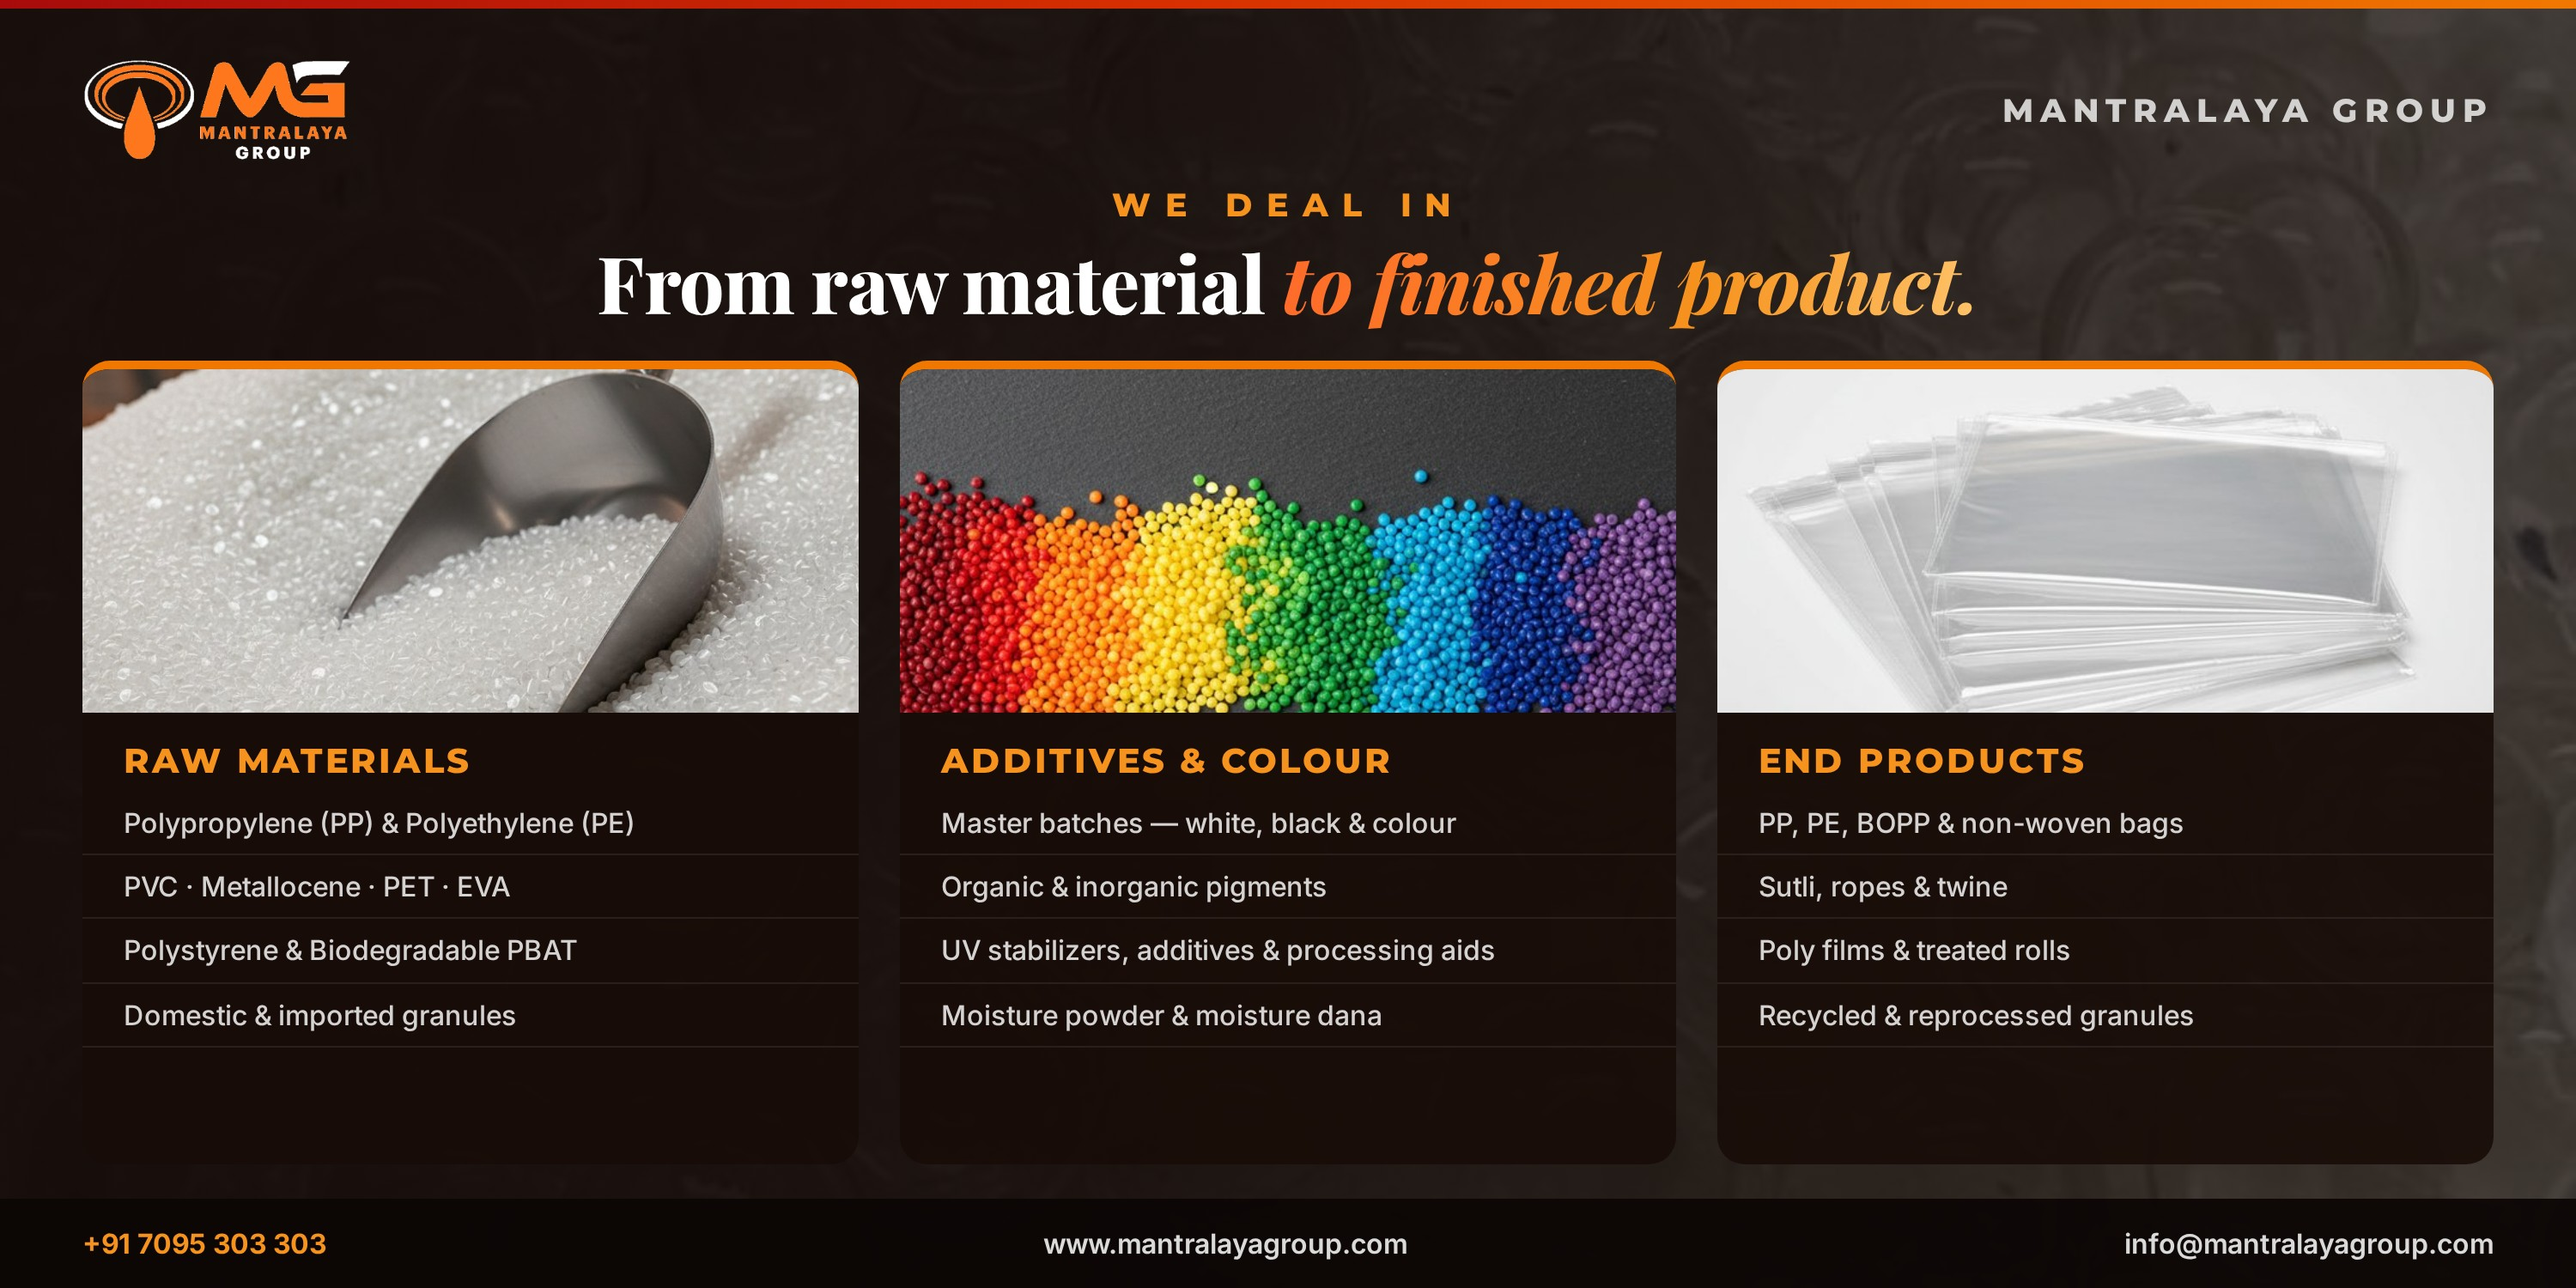
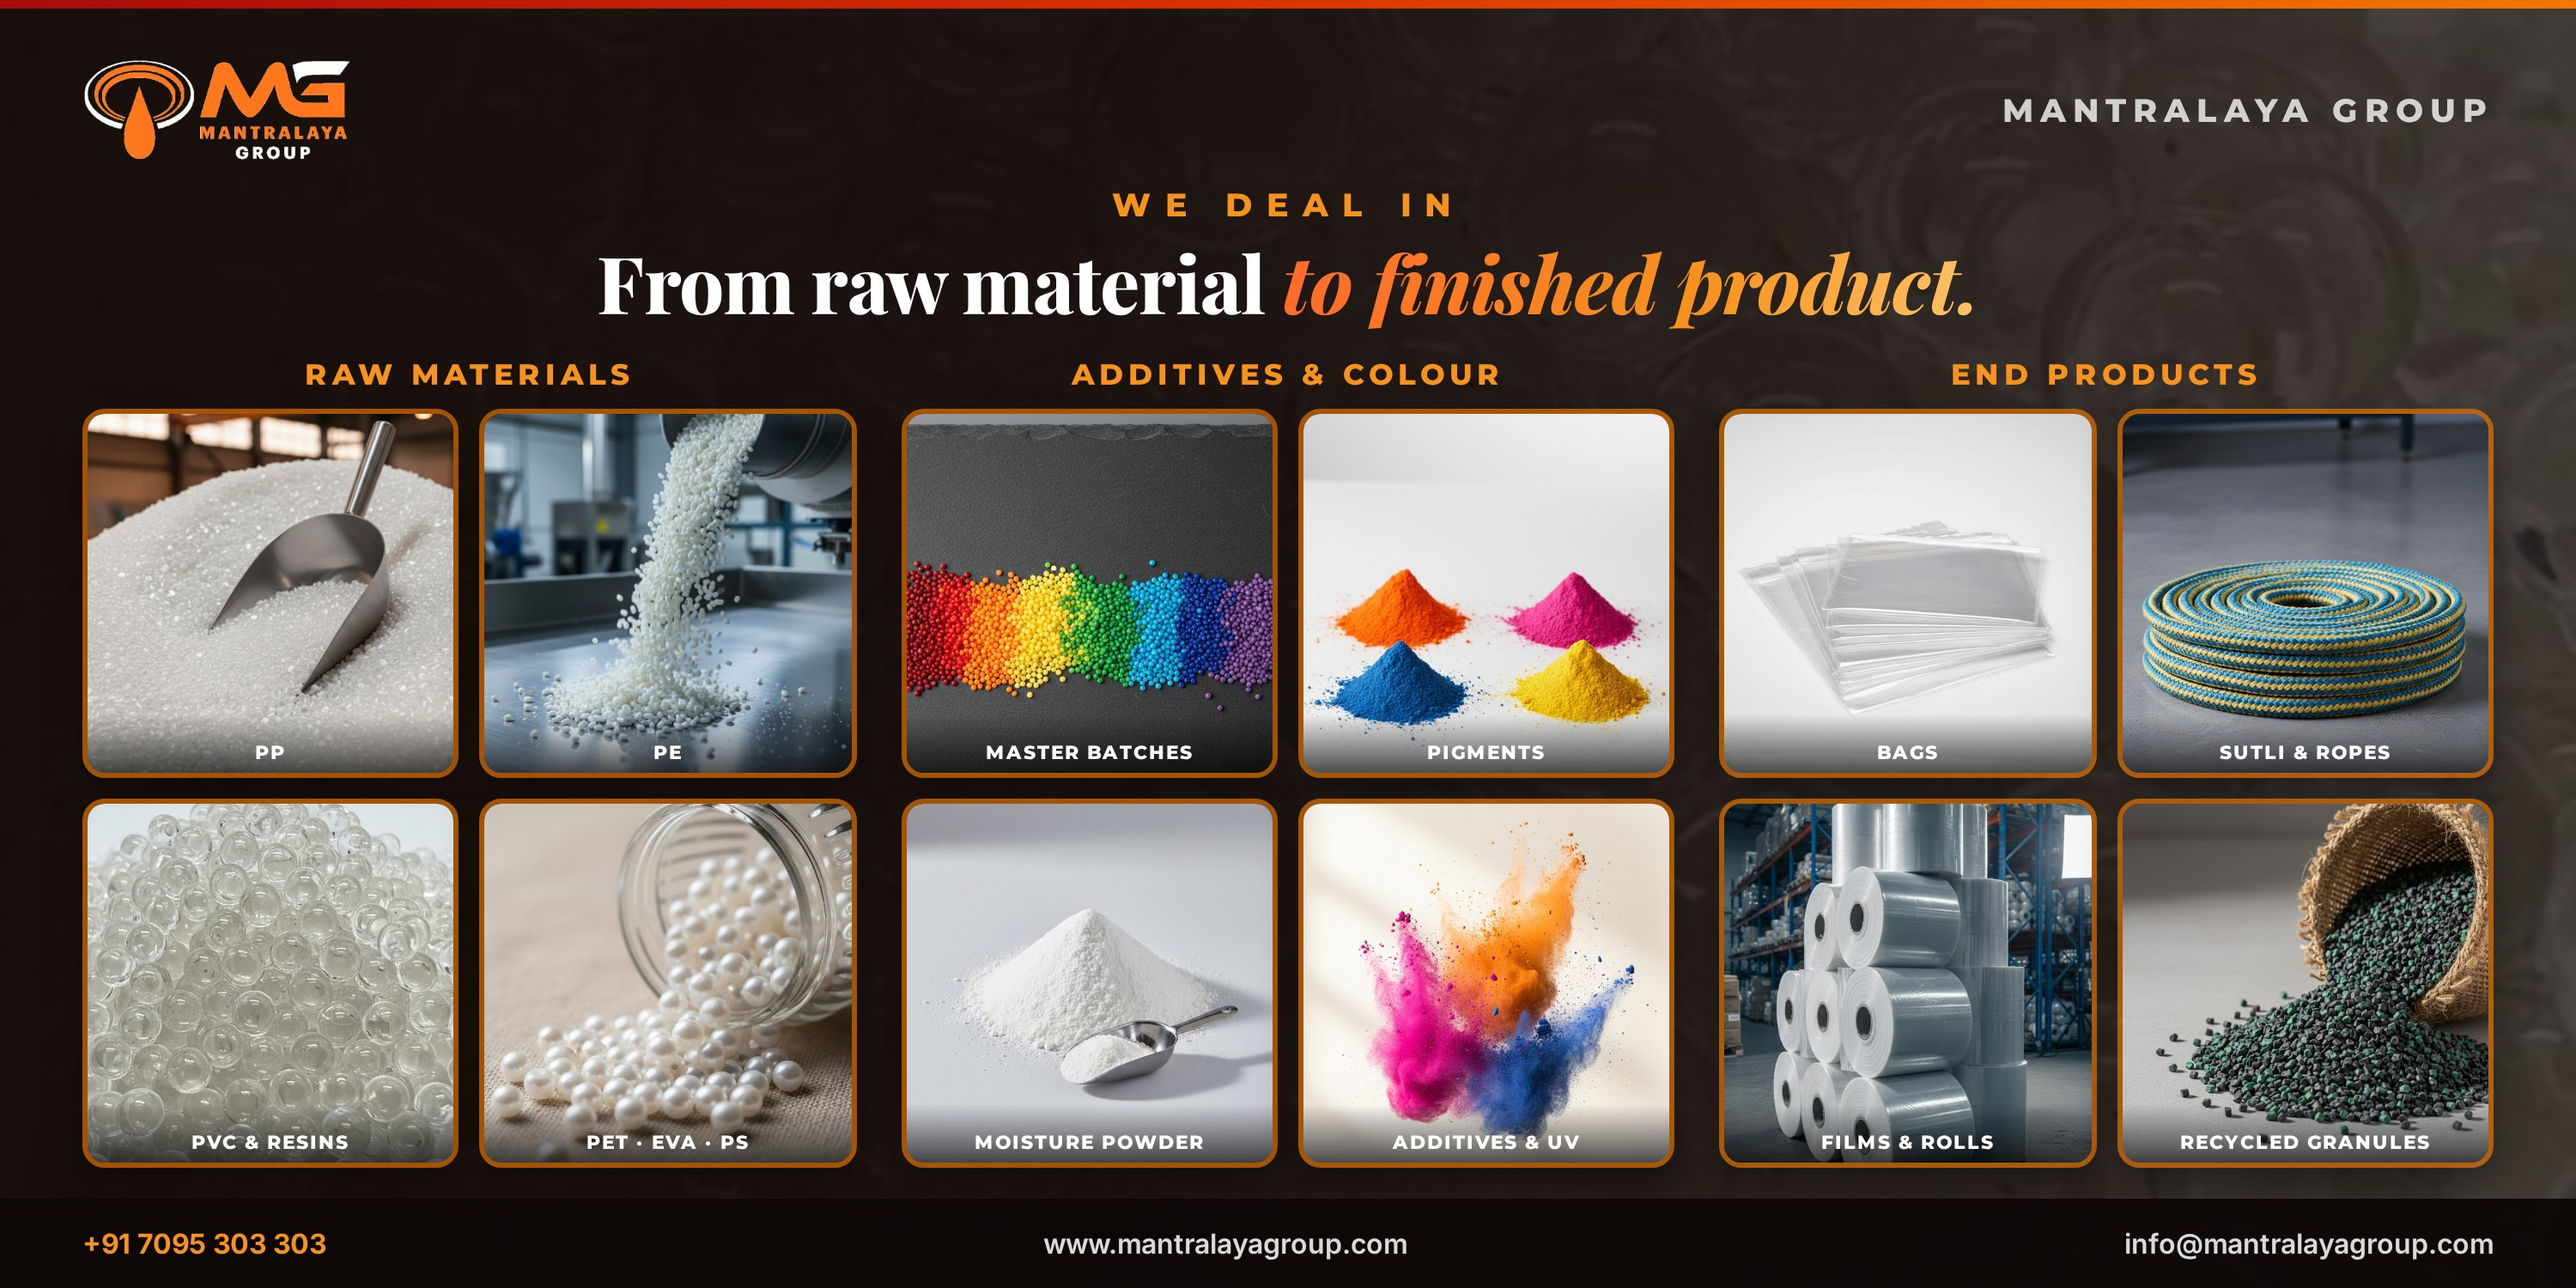
Dealing-range 2000x1000: image tiles replace list columns

diff --git a/posters/src/poster-dealing-room-2000x1000--dark.html b/posters/src/poster-dealing-room-2000x1000--dark.html
@@ -17,13 +17,14 @@ body{width:1500px;height:750px;overflow:hidden;position:relative;font-family:'Mo
 .top{padding:14px 56px 0;position:relative;z-index:4;text-align:center}
 .cap2{font-size:46px;margin-top:8px;color:#fff}
 .cap2 em{background:linear-gradient(100deg,#FF6A2B,#F6921E 60%,#FFC46B);-webkit-background-clip:text;background-clip:text;color:transparent;font-style:italic}
-.cols{flex:1;display:flex;gap:24px;padding:20px 48px 20px;position:relative;z-index:4}
-.col{flex:1;background:rgba(24,12,8,0.9);border-top:5px solid #F07800;border-radius:16px;overflow:hidden;display:flex;flex-direction:column}
-.cph{height:200px;overflow:hidden;position:relative}
-.cph img{width:100%;height:100%;object-fit:cover;display:block}
-.col h4{font-size:20px;font-weight:800;letter-spacing:1.5px;color:#F6921E;padding:16px 24px 6px}
-.it{font-family:'Inter',sans-serif;font-size:16px;font-weight:500;color:rgba(255,255,255,0.82);padding:7px 24px;border-bottom:1px solid rgba(255,255,255,0.08);line-height:1.4}
+.cols{flex:1;display:flex;gap:26px;padding:18px 48px 18px;position:relative;z-index:4;min-height:0}
+.col{flex:1;display:flex;flex-direction:column;min-height:0}
+.gh{text-align:center;font-size:17px;font-weight:800;letter-spacing:3px;color:#F6921E;padding-bottom:10px}
+.g4{flex:1;display:grid;grid-template-columns:1fr 1fr;grid-template-rows:1fr 1fr;gap:12px;min-height:0}
+.tw{position:relative;min-height:0;border-radius:13px;overflow:hidden;border:3px solid rgba(240,120,0,0.65);box-shadow:0 10px 22px rgba(0,0,0,0.35)}
+.tw img{position:absolute;inset:0;width:100%;height:100%;object-fit:cover;display:block}
+.tl{position:absolute;left:0;right:0;bottom:0;padding:15px 5px 5px;text-align:center;font-size:11px;font-weight:800;letter-spacing:1px;color:#fff;background:linear-gradient(180deg,transparent,rgba(0,0,0,0.68));z-index:2}
 </style><div class="bgimg"><img src="../../products/natural-granules.jpg"></div><div class="rule"></div><div class="hdr"><img src="../../mg-logo-dark.png"><div class="co">MANTRALAYA GROUP</div></div>
 <div class="top"><div class="label">WE DEAL IN</div>
 <div class="cap cap2">From raw material <em>to finished product.</em></div></div>
-<div class="cols"><div class="col"><div class="cph"><img src="../../products/pp-granules-hero.jpg"></div><h4>RAW MATERIALS</h4><div class="it">Polypropylene (PP) &amp; Polyethylene (PE)</div><div class="it">PVC · Metallocene · PET · EVA</div><div class="it">Polystyrene &amp; Biodegradable PBAT</div><div class="it">Domestic &amp; imported granules</div></div><div class="col"><div class="cph"><img src="../../products/gen-granule-gradient.jpg"></div><h4>ADDITIVES &amp; COLOUR</h4><div class="it">Master batches — white, black &amp; colour</div><div class="it">Organic &amp; inorganic pigments</div><div class="it">UV stabilizers, additives &amp; processing aids</div><div class="it">Moisture powder &amp; moisture dana</div></div><div class="col"><div class="cph"><img src="../../products/pp-bags.jpg"></div><h4>END PRODUCTS</h4><div class="it">PP, PE, BOPP &amp; non-woven bags</div><div class="it">Sutli, ropes &amp; twine</div><div class="it">Poly films &amp; treated rolls</div><div class="it">Recycled &amp; reprocessed granules</div></div></div><div class="ftr"><span><b>+91 7095 303 303</b></span><span>www.mantralayagroup.com</span><span>info@mantralayagroup.com</span></div></body></html>
+<div class="cols"><div class="col"><div class="gh">RAW MATERIALS</div><div class="g4"><div class="tw"><img src="../../products/pp-granules-hero.jpg"><div class="tl">PP</div></div><div class="tw"><img src="../../products/pe-pellets-hero.jpg"><div class="tl">PE</div></div><div class="tw"><img src="../../products/natural-granules.jpg"><div class="tl">PVC &amp; RESINS</div></div><div class="tw"><img src="../../products/gen-dana-pearls.jpg"><div class="tl">PET · EVA · PS</div></div></div></div><div class="col"><div class="gh">ADDITIVES &amp; COLOUR</div><div class="g4"><div class="tw"><img src="../../products/gen-granule-gradient.jpg"><div class="tl">MASTER BATCHES</div></div><div class="tw"><img src="../../products/pigments.jpg"><div class="tl">PIGMENTS</div></div><div class="tw"><img src="../../products/moisture-powder.jpg"><div class="tl">MOISTURE POWDER</div></div><div class="tw"><img src="../../products/gen-pigment-burst.jpg"><div class="tl">ADDITIVES &amp; UV</div></div></div></div><div class="col"><div class="gh">END PRODUCTS</div><div class="g4"><div class="tw"><img src="../../products/pp-bags.jpg"><div class="tl">BAGS</div></div><div class="tw"><img src="../../products/ropes.jpg"><div class="tl">SUTLI &amp; ROPES</div></div><div class="tw"><img src="../../products/treated-rolls.jpg"><div class="tl">FILMS &amp; ROLLS</div></div><div class="tw"><img src="../../products/recycled-granules.jpg"><div class="tl">RECYCLED GRANULES</div></div></div></div></div><div class="ftr"><span><b>+91 7095 303 303</b></span><span>www.mantralayagroup.com</span><span>info@mantralayagroup.com</span></div></body></html>

diff --git a/posters/src/poster-dealing-room-2000x1000--light.html b/posters/src/poster-dealing-room-2000x1000--light.html
@@ -17,13 +17,14 @@ body{width:1500px;height:750px;overflow:hidden;position:relative;font-family:'Mo
 .top{padding:14px 56px 0;position:relative;z-index:4;text-align:center}
 .cap2{font-size:46px;margin-top:8px;color:#10141B}
 .cap2 em{background:linear-gradient(100deg,#A80B0B,#D83000 45%,#F07800);-webkit-background-clip:text;background-clip:text;color:transparent;font-style:italic}
-.cols{flex:1;display:flex;gap:24px;padding:20px 48px 20px;position:relative;z-index:4}
-.col{flex:1;background:#fff;border-top:5px solid #D83000;box-shadow:0 10px 30px rgba(168,11,11,0.08);border-radius:16px;overflow:hidden;display:flex;flex-direction:column}
-.cph{height:200px;overflow:hidden;position:relative}
-.cph img{width:100%;height:100%;object-fit:cover;display:block}
-.col h4{font-size:20px;font-weight:800;letter-spacing:1.5px;color:#A80B0B;padding:16px 24px 6px}
-.it{font-family:'Inter',sans-serif;font-size:16px;font-weight:500;color:#3A4250;padding:7px 24px;border-bottom:1px solid rgba(16,20,27,0.06);line-height:1.4}
+.cols{flex:1;display:flex;gap:26px;padding:18px 48px 18px;position:relative;z-index:4;min-height:0}
+.col{flex:1;display:flex;flex-direction:column;min-height:0}
+.gh{text-align:center;font-size:17px;font-weight:800;letter-spacing:3px;color:#C43D00;padding-bottom:10px}
+.g4{flex:1;display:grid;grid-template-columns:1fr 1fr;grid-template-rows:1fr 1fr;gap:12px;min-height:0}
+.tw{position:relative;min-height:0;border-radius:13px;overflow:hidden;border:3px solid #D83000;box-shadow:0 10px 22px rgba(0,0,0,0.1)}
+.tw img{position:absolute;inset:0;width:100%;height:100%;object-fit:cover;display:block}
+.tl{position:absolute;left:0;right:0;bottom:0;padding:15px 5px 5px;text-align:center;font-size:11px;font-weight:800;letter-spacing:1px;color:#fff;background:linear-gradient(180deg,transparent,rgba(0,0,0,0.68));z-index:2}
 </style><div class="bgimg"><img src="../../products/natural-granules.jpg"></div><div class="rule"></div><div class="hdr"><img src="../../mg-logo.png"><div class="co">MANTRALAYA GROUP</div></div>
 <div class="top"><div class="label">WE DEAL IN</div>
 <div class="cap cap2">From raw material <em>to finished product.</em></div></div>
-<div class="cols"><div class="col"><div class="cph"><img src="../../products/pp-granules-hero.jpg"></div><h4>RAW MATERIALS</h4><div class="it">Polypropylene (PP) &amp; Polyethylene (PE)</div><div class="it">PVC · Metallocene · PET · EVA</div><div class="it">Polystyrene &amp; Biodegradable PBAT</div><div class="it">Domestic &amp; imported granules</div></div><div class="col"><div class="cph"><img src="../../products/gen-granule-gradient.jpg"></div><h4>ADDITIVES &amp; COLOUR</h4><div class="it">Master batches — white, black &amp; colour</div><div class="it">Organic &amp; inorganic pigments</div><div class="it">UV stabilizers, additives &amp; processing aids</div><div class="it">Moisture powder &amp; moisture dana</div></div><div class="col"><div class="cph"><img src="../../products/pp-bags.jpg"></div><h4>END PRODUCTS</h4><div class="it">PP, PE, BOPP &amp; non-woven bags</div><div class="it">Sutli, ropes &amp; twine</div><div class="it">Poly films &amp; treated rolls</div><div class="it">Recycled &amp; reprocessed granules</div></div></div><div class="ftr"><span><b>+91 7095 303 303</b></span><span>www.mantralayagroup.com</span><span>info@mantralayagroup.com</span></div></body></html>
+<div class="cols"><div class="col"><div class="gh">RAW MATERIALS</div><div class="g4"><div class="tw"><img src="../../products/pp-granules-hero.jpg"><div class="tl">PP</div></div><div class="tw"><img src="../../products/pe-pellets-hero.jpg"><div class="tl">PE</div></div><div class="tw"><img src="../../products/natural-granules.jpg"><div class="tl">PVC &amp; RESINS</div></div><div class="tw"><img src="../../products/gen-dana-pearls.jpg"><div class="tl">PET · EVA · PS</div></div></div></div><div class="col"><div class="gh">ADDITIVES &amp; COLOUR</div><div class="g4"><div class="tw"><img src="../../products/gen-granule-gradient.jpg"><div class="tl">MASTER BATCHES</div></div><div class="tw"><img src="../../products/pigments.jpg"><div class="tl">PIGMENTS</div></div><div class="tw"><img src="../../products/moisture-powder.jpg"><div class="tl">MOISTURE POWDER</div></div><div class="tw"><img src="../../products/gen-pigment-burst.jpg"><div class="tl">ADDITIVES &amp; UV</div></div></div></div><div class="col"><div class="gh">END PRODUCTS</div><div class="g4"><div class="tw"><img src="../../products/pp-bags.jpg"><div class="tl">BAGS</div></div><div class="tw"><img src="../../products/ropes.jpg"><div class="tl">SUTLI &amp; ROPES</div></div><div class="tw"><img src="../../products/treated-rolls.jpg"><div class="tl">FILMS &amp; ROLLS</div></div><div class="tw"><img src="../../products/recycled-granules.jpg"><div class="tl">RECYCLED GRANULES</div></div></div></div></div><div class="ftr"><span><b>+91 7095 303 303</b></span><span>www.mantralayagroup.com</span><span>info@mantralayagroup.com</span></div></body></html>

diff --git a/posters/gen2.py b/posters/gen2.py
@@ -822,29 +822,28 @@ def dealall_a(w,h,dark):
 <div class="grid">{tiles}</div>{FOOT}"""
 
 def dealall_b(w,h,dark):
-    """Meeting room — 3 columns: raw materials / additives & colour / end products. 2000x1000."""
+    """Meeting room — 3 image groups, no tables. 2000x1000."""
     gt = GT_W if dark else GT_D
     fg='#fff' if dark else '#10141B'
-    card = 'background:rgba(24,12,8,0.9);border-top:5px solid #F07800' if dark else 'background:#fff;border-top:5px solid #D83000;box-shadow:0 10px 30px rgba(168,11,11,0.08)'
-    it = 'rgba(255,255,255,0.82)' if dark else '#3A4250'
-    hcol = '#F6921E' if dark else '#A80B0B'
-    cols=[('RAW MATERIALS','pp-granules-hero',['Polypropylene (PP) &amp; Polyethylene (PE)','PVC · Metallocene · PET · EVA','Polystyrene &amp; Biodegradable PBAT','Domestic &amp; imported granules']),
-          ('ADDITIVES &amp; COLOUR','gen-granule-gradient',['Master batches — white, black &amp; colour','Organic &amp; inorganic pigments','UV stabilizers, additives &amp; processing aids','Moisture powder &amp; moisture dana']),
-          ('END PRODUCTS','pp-bags',['PP, PE, BOPP &amp; non-woven bags','Sutli, ropes &amp; twine','Poly films &amp; treated rolls','Recycled &amp; reprocessed granules'])]
+    hcol = '#F6921E' if dark else '#C43D00'
+    groups=[('RAW MATERIALS',[('pp-granules-hero','PP'),('pe-pellets-hero','PE'),('natural-granules','PVC &amp; RESINS'),('gen-dana-pearls','PET · EVA · PS')]),
+            ('ADDITIVES &amp; COLOUR',[('gen-granule-gradient','MASTER BATCHES'),('pigments','PIGMENTS'),('moisture-powder','MOISTURE POWDER'),('gen-pigment-burst','ADDITIVES &amp; UV')]),
+            ('END PRODUCTS',[('pp-bags','BAGS'),('ropes','SUTLI &amp; ROPES'),('treated-rolls','FILMS &amp; ROLLS'),('recycled-granules','RECYCLED GRANULES')])]
     html=''
-    for t,p,items in cols:
-        lis=''.join(f'<div class="it">{i}</div>' for i in items)
-        html+=f'<div class="col"><div class="cph"><img src="{P(p)}"></div><h4>{t}</h4>{lis}</div>'
+    for t,pics in groups:
+        tiles=''.join(f'<div class="tw"><img src="{P(p)}"><div class="tl">{l}</div></div>' for p,l in pics)
+        html+=f'<div class="col"><div class="gh">{t}</div><div class="g4">{tiles}</div></div>'
     return base(w,h,dark)+f"""<style>
 .top{{padding:14px 56px 0;position:relative;z-index:4;text-align:center}}
 .cap2{{font-size:46px;margin-top:8px;color:{fg}}}
 .cap2 em{{{gt}font-style:italic}}
-.cols{{flex:1;display:flex;gap:24px;padding:20px 48px 20px;position:relative;z-index:4}}
-.col{{flex:1;{card};border-radius:16px;overflow:hidden;display:flex;flex-direction:column}}
-.cph{{height:200px;overflow:hidden;position:relative}}
-.cph img{{width:100%;height:100%;object-fit:cover;display:block}}
-.col h4{{font-size:20px;font-weight:800;letter-spacing:1.5px;color:{hcol};padding:16px 24px 6px}}
-.it{{font-family:'Inter',sans-serif;font-size:16px;font-weight:500;color:{it};padding:7px 24px;border-bottom:1px solid {'rgba(255,255,255,0.08)' if dark else 'rgba(16,20,27,0.06)'};line-height:1.4}}
+.cols{{flex:1;display:flex;gap:26px;padding:18px 48px 18px;position:relative;z-index:4;min-height:0}}
+.col{{flex:1;display:flex;flex-direction:column;min-height:0}}
+.gh{{text-align:center;font-size:17px;font-weight:800;letter-spacing:3px;color:{hcol};padding-bottom:10px}}
+.g4{{flex:1;display:grid;grid-template-columns:1fr 1fr;grid-template-rows:1fr 1fr;gap:12px;min-height:0}}
+.tw{{position:relative;min-height:0;border-radius:13px;overflow:hidden;border:3px solid {'rgba(240,120,0,0.65)' if dark else '#D83000'};box-shadow:0 10px 22px rgba(0,0,0,{'0.35' if dark else '0.1'})}}
+.tw img{{position:absolute;inset:0;width:100%;height:100%;object-fit:cover;display:block}}
+.tl{{position:absolute;left:0;right:0;bottom:0;padding:15px 5px 5px;text-align:center;font-size:11px;font-weight:800;letter-spacing:1px;color:#fff;background:linear-gradient(180deg,transparent,rgba(0,0,0,0.68));z-index:2}}
 </style>{bgimg('natural-granules')}{hdr(dark)}
 <div class="top"><div class="label">WE DEAL IN</div>
 <div class="cap cap2">From raw material <em>to finished product.</em></div></div>
